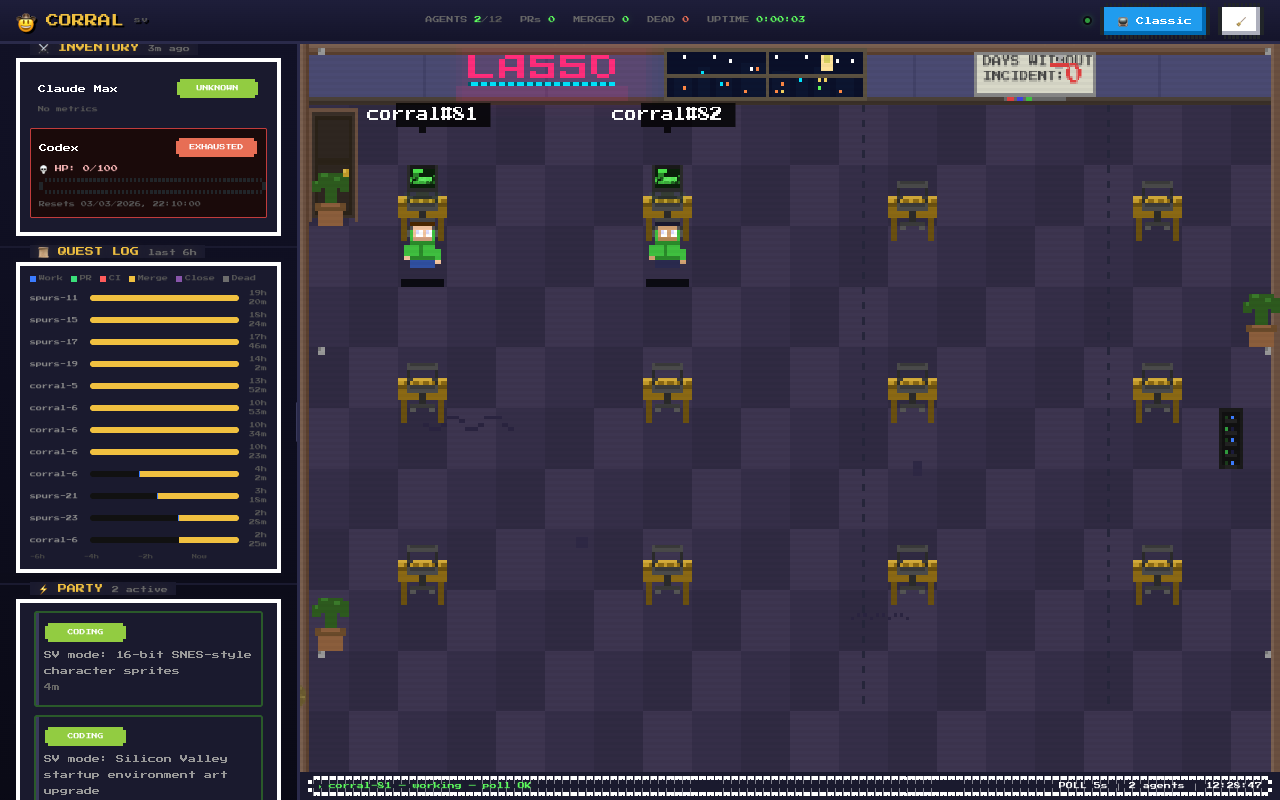
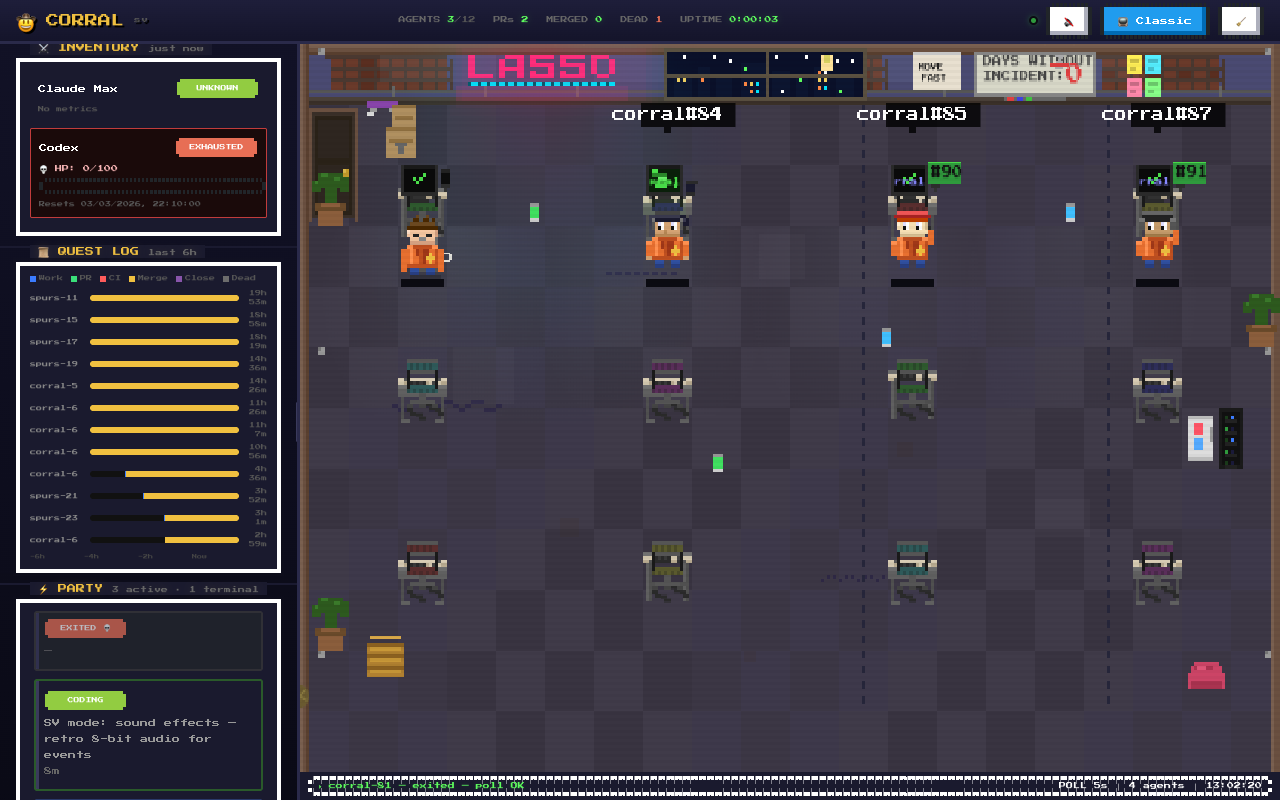
SV mode: add retro 8-bit sound effects for agent events
Add Web Audio API-synthesized chiptune sounds to the SV view, matching
Classic view's audio capabilities with expanded event coverage:

- Sound toggle button (🔇/🔊) in top bar, muted by default
- Keyboard shortcut 'S' to toggle sound
- localStorage persistence for sound preference
- Five distinct event sounds:
  - New agent: ascending chiptune arpeggio
  - PR opened: 3 rising notes (Zelda item-get style)
  - CI failed: descending minor chord warning
  - Agent died: low rumble + descending tone
  - PR merged: victory fanfare celebration
- Dedup tracking via Sets to prevent repeat sounds per agent

diff --git a/sv.html b/sv.html
@@ -610,6 +610,7 @@
   </div>
   <div class="top-controls">
     <div class="conn-dot connecting" id="connDot" title="Connecting"></div>
+    <button class="nes-btn" id="soundToggleBtn" onclick="toggleSound()" title="Sound off (S)">🔇</button>
     <button class="nes-btn is-primary" id="toggleViewBtn" onclick="switchToClassic()" title="Switch to Classic view">📺 Classic</button>
     <button class="nes-btn" id="cleanBtn" onclick="cleanAgents()">🧹</button>
     <button class="nes-btn mobile-menu-btn" id="mobileMenuBtn" onclick="toggleMobileSidebar()" title="Toggle sidebar">☰</button>
@@ -697,6 +698,16 @@ let usageData = null;
 let connectionState = 'connecting';
 let polling = false;
 const startTime = Date.now();
+
+// --- Sound state ---
+let soundEnabled = false;
+let audioCtx = null;
+const soundedNewAgent = new Set();
+const soundedPrOpen = new Set();
+const soundedCiFailed = new Set();
+const soundedDead = new Set();
+const soundedMerged = new Set();
+const previousAgentsByKey = new Map();
 
 // --- Walk animation state ---
 let transitions = [];    // { key, deskIdx, path, progress, colorIdx, startTime }
@@ -878,6 +889,97 @@ async function cleanAgents() {
     await refreshFromLasso();
   } catch(e) {}
   if (btn) btn.disabled = false;
+}
+
+// --- Sound ---
+function initAudio() {
+  if (!audioCtx) {
+    const AC = window.AudioContext || window.webkitAudioContext;
+    audioCtx = AC ? new AC() : null;
+  }
+}
+
+function updateSoundButton() {
+  const btn = document.getElementById('soundToggleBtn');
+  if (!btn) return;
+  btn.textContent = soundEnabled ? '🔊' : '🔇';
+  btn.title = soundEnabled ? 'Sound on (S)' : 'Sound off (S)';
+}
+
+function toggleSound() {
+  soundEnabled = !soundEnabled;
+  try { localStorage.setItem('corral-sound', soundEnabled ? '1' : '0'); } catch {}
+  updateSoundButton();
+  if (soundEnabled) {
+    initAudio();
+    if (audioCtx && audioCtx.state === 'suspended') audioCtx.resume();
+    playConfirmation();
+  }
+}
+
+function playTone(freq, endFreq, duration, type, vol, delay) {
+  initAudio();
+  if (!audioCtx) return;
+  if (audioCtx.state === 'suspended') audioCtx.resume();
+  const t = audioCtx.currentTime + (delay || 0);
+  const osc = audioCtx.createOscillator();
+  const gain = audioCtx.createGain();
+  osc.type = type || 'square';
+  osc.frequency.setValueAtTime(freq, t);
+  osc.frequency.exponentialRampToValueAtTime(endFreq, t + duration * 0.4);
+  gain.gain.setValueAtTime(0.0001, t);
+  gain.gain.exponentialRampToValueAtTime(vol || 0.08, t + 0.02);
+  gain.gain.exponentialRampToValueAtTime(0.0001, t + duration);
+  osc.connect(gain);
+  gain.connect(audioCtx.destination);
+  osc.start(t);
+  osc.stop(t + duration + 0.01);
+}
+
+function playConfirmation() {
+  playTone(660, 880, 0.15, 'square', 0.05);
+}
+
+// New agent arrives — ascending chiptune arpeggio (~0.5s)
+function playNewAgent() {
+  if (!soundEnabled) return;
+  playTone(523, 523, 0.12, 'square', 0.06, 0);
+  playTone(659, 659, 0.12, 'square', 0.06, 0.12);
+  playTone(784, 784, 0.12, 'square', 0.06, 0.24);
+  playTone(1047, 1047, 0.12, 'square', 0.05, 0.36);
+}
+
+// PR opened — 3 rising notes, Zelda item get (~0.8s)
+function playPrCreated() {
+  if (!soundEnabled) return;
+  playTone(587, 587, 0.2, 'square', 0.06, 0);
+  playTone(740, 740, 0.2, 'square', 0.06, 0.22);
+  playTone(880, 880, 0.35, 'triangle', 0.07, 0.44);
+}
+
+// CI failed — descending minor chord, warning (~0.5s)
+function playCiFailed() {
+  if (!soundEnabled) return;
+  playTone(440, 330, 0.25, 'sawtooth', 0.05, 0);
+  playTone(330, 220, 0.25, 'sawtooth', 0.05, 0.2);
+}
+
+// Agent died — low rumble + descending tone (~1s)
+function playAgentDied() {
+  if (!soundEnabled) return;
+  playTone(260, 100, 0.6, 'sine', 0.06, 0);
+  playTone(180, 80, 0.5, 'sawtooth', 0.03, 0.3);
+}
+
+// PR merged — victory fanfare, celebration arpeggio (~1.5s)
+function playPrMerged() {
+  if (!soundEnabled) return;
+  playTone(523, 523, 0.15, 'square', 0.06, 0);
+  playTone(659, 659, 0.15, 'square', 0.06, 0.15);
+  playTone(784, 784, 0.15, 'square', 0.06, 0.30);
+  playTone(1047, 1047, 0.3, 'square', 0.07, 0.45);
+  playTone(880, 880, 0.15, 'triangle', 0.05, 0.80);
+  playTone(1047, 1047, 0.5, 'triangle', 0.07, 0.95);
 }
 
 // --- Top stats bar ---
@@ -1145,6 +1247,7 @@ async function refreshFromLasso() {
     const data = await agentsResp.json();
     agents = Array.isArray(data) ? data : (data.sessions || []);
     detectNewAgents();
+    detectSoundEvents();
 
     if (historyResp.ok) {
       const hData = await historyResp.json();
@@ -1363,6 +1466,67 @@ function detectNewAgents() {
 
   hasInitialized = true;
   prevAgentKeys = currentKeys;
+}
+
+function hasPrOpen(agent) {
+  const s = mapState(agent);
+  return s === 'waiting' || s === 'reading' || s === 'review_waiting';
+}
+
+function detectSoundEvents() {
+  if (!hasInitialized || previousAgentsByKey.size === 0) {
+    // First load — store state but don't play sounds
+    agents.slice(0, 12).forEach((a, i) => previousAgentsByKey.set(agentKey(a, i), a));
+    return;
+  }
+
+  let soundToPlay = null;
+  agents.slice(0, 12).forEach((agent, idx) => {
+    const key = agentKey(agent, idx);
+    const prev = previousAgentsByKey.get(key);
+
+    // New agent arrived (no previous state for this key)
+    if (!prev && !soundedNewAgent.has(key)) {
+      soundedNewAgent.add(key);
+      if (!soundToPlay) soundToPlay = 'new';
+    }
+
+    if (!prev) return;
+
+    // PR merged
+    if (!soundedMerged.has(key) && mapState(prev) !== 'merged' && mapState(agent) === 'merged') {
+      soundedMerged.add(key);
+      soundToPlay = 'merged'; // highest priority
+    }
+
+    // Agent died
+    if (!soundedDead.has(key) && mapState(prev) !== 'dead' && mapState(agent) === 'dead') {
+      soundedDead.add(key);
+      if (!soundToPlay || soundToPlay === 'new') soundToPlay = 'dead';
+    }
+
+    // CI failed
+    if (!soundedCiFailed.has(key) && !isCiFailing(prev) && isCiFailing(agent)) {
+      soundedCiFailed.add(key);
+      if (!soundToPlay || soundToPlay === 'pr' || soundToPlay === 'new') soundToPlay = 'ci';
+    }
+
+    // PR opened
+    if (!soundedPrOpen.has(key) && !hasPrOpen(prev) && hasPrOpen(agent)) {
+      soundedPrOpen.add(key);
+      if (!soundToPlay || soundToPlay === 'new') soundToPlay = 'pr';
+    }
+  });
+
+  if (soundToPlay === 'merged') playPrMerged();
+  else if (soundToPlay === 'dead') playAgentDied();
+  else if (soundToPlay === 'ci') playCiFailed();
+  else if (soundToPlay === 'pr') playPrCreated();
+  else if (soundToPlay === 'new') playNewAgent();
+
+  // Store current state for next comparison
+  previousAgentsByKey.clear();
+  agents.slice(0, 12).forEach((a, i) => previousAgentsByKey.set(agentKey(a, i), a));
 }
 
 function R(x, y, w, h, color) { ctx.fillStyle = color; ctx.fillRect(x, y, w, h); }
@@ -2354,11 +2518,15 @@ function toggleMobileSidebar() {
   }
 }
 
-// Close sidebar on Escape key
+// Keyboard shortcuts
 document.addEventListener('keydown', (e) => {
   if (e.key === 'Escape') {
     const sidebar = document.getElementById('sidebar');
     if (sidebar.classList.contains('mobile-open')) toggleMobileSidebar();
+  }
+  if ((e.key === 's' || e.key === 'S') && !e.ctrlKey && !e.metaKey && !e.altKey) {
+    if (e.target.tagName === 'INPUT' || e.target.tagName === 'TEXTAREA') return;
+    toggleSound();
   }
 });
 
@@ -2502,6 +2670,8 @@ canvas.addEventListener('mouseleave', () => {
 });
 
 // === START ===
+try { soundEnabled = localStorage.getItem('corral-sound') === '1'; } catch {}
+updateSoundButton();
 requestAnimationFrame(render);
 startPolling();
 </script>
